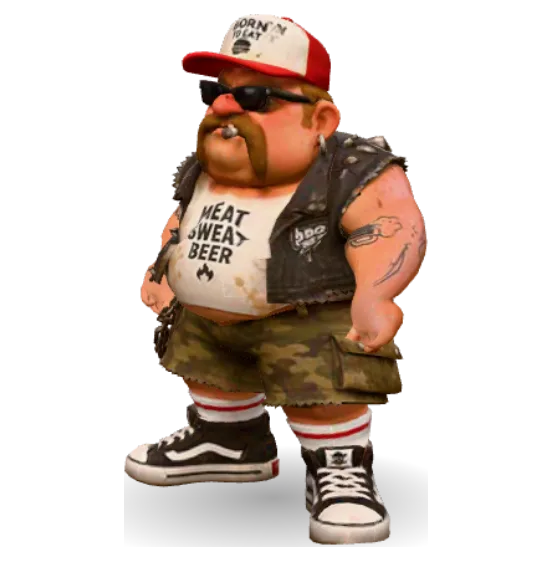
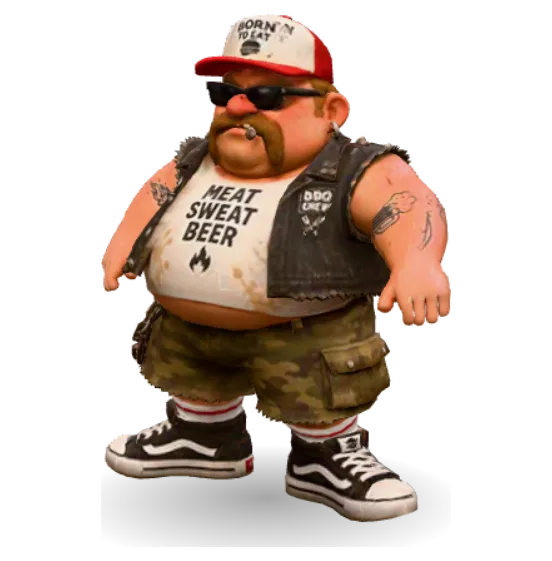
Unanimated characters borrow from a rig of their own build: the fat Biker's clips for the big ones, the Hick's for the slim (not Zap's alien proportions)
Claude-Session: https://claude.ai/code/session_01McRD2PT414eMdAMdSUCz7Q

Changed region(s): [[0.1848, 0.0303, 0.8315, 0.9697]]

diff --git a/site/content.js b/site/content.js
@@ -117,30 +117,30 @@ export const ASSETS = [
     tris: 10000, joints: 65, clips: 12, prefer: ['idle'],
     notes: ['Walk, run, strafe and turn set'] },
   // the rest of Zap 'n Clancy's street. Rigged but most unanimated in the file: they borrow
-  // Zap's idle, walk and run (`anim`) so they stand like people instead of in a T-pose
+  // the idle, walk and run of a rig with the same build (`anim`): the fat Biker's for the big ones, the Hick's for the slim so they stand like people instead of in a T-pose
   { slug: 'officer', h: 1.82, title: 'Officer', from: "Zap 'n Clancy", also: ['Shredworld'], glb: 'models/assets/police_officer_toon.glb', mb: 1.2,
     tris: 6875, joints: 59, clips: 15, prefer: ['idle_01'],
     notes: ['Also the police in Shredworld', 'Draw, shoot, hit reactions, knock-down and get-up', 'Pistol on a weapon joint'] },
   { slug: 'biker', h: 1.8, title: 'Biker', from: "Zap 'n Clancy", glb: 'models/assets/fat_biker_02.glb', mb: 1.4,
     tris: 10562, joints: 65, clips: 15, prefer: ['idle'],
     notes: ['Driving, hit reactions, fall and get-up', 'Fans himself when idle'] },
-  { slug: 'biker-2', h: 1.8, title: 'Biker II', from: "Zap 'n Clancy", glb: 'models/assets/fat_biker_01.glb', anim: 'models/assets/zap.glb', mb: 0.3,
+  { slug: 'biker-2', h: 1.8, title: 'Biker II', from: "Zap 'n Clancy", glb: 'models/assets/fat_biker_01.glb', anim: 'models/assets/fat_biker_02.glb', mb: 0.3,
     tris: 10316, joints: 66, clips: 0, prefer: ['idle'], notes: ['Rigged, ready for the shared clip set'] },
-  { slug: 'activist', h: 1.75, title: 'Activist', from: "Zap 'n Clancy", glb: 'models/assets/fat_activist_01.glb', anim: 'models/assets/zap.glb', mb: 0.2,
+  { slug: 'activist', h: 1.75, title: 'Activist', from: "Zap 'n Clancy", glb: 'models/assets/fat_activist_01.glb', anim: 'models/assets/fat_biker_02.glb', mb: 0.2,
     tris: 10578, joints: 65, clips: 0, prefer: ['idle'], notes: ['Rigged, ready for the shared clip set'] },
-  { slug: 'hippie', h: 1.75, title: 'Hippie', from: "Zap 'n Clancy", glb: 'models/assets/fat_hippie.glb', anim: 'models/assets/zap.glb', mb: 0.3,
+  { slug: 'hippie', h: 1.75, title: 'Hippie', from: "Zap 'n Clancy", glb: 'models/assets/fat_hippie.glb', anim: 'models/assets/fat_biker_02.glb', mb: 0.3,
     tris: 10220, joints: 66, clips: 0, prefer: ['idle'], notes: ['Rigged, ready for the shared clip set'] },
-  { slug: 'hipster', h: 1.75, title: 'Hipster', from: "Zap 'n Clancy", glb: 'models/assets/fat_hipster.glb', anim: 'models/assets/zap.glb', mb: 0.2,
+  { slug: 'hipster', h: 1.75, title: 'Hipster', from: "Zap 'n Clancy", glb: 'models/assets/fat_hipster.glb', anim: 'models/assets/fat_biker_02.glb', mb: 0.2,
     tris: 10113, joints: 66, clips: 0, prefer: ['idle'], notes: ['Rigged, ready for the shared clip set'] },
-  { slug: 'secret-service', h: 1.85, title: 'Secret Service', from: "Zap 'n Clancy", glb: 'models/assets/fat_secret_service.glb', anim: 'models/assets/zap.glb', mb: 0.1,
+  { slug: 'secret-service', h: 1.85, title: 'Secret Service', from: "Zap 'n Clancy", glb: 'models/assets/fat_secret_service.glb', anim: 'models/assets/fat_biker_02.glb', mb: 0.1,
     tris: 5298, joints: 66, clips: 0, prefer: ['idle'], notes: ['Rigged, ready for the shared clip set'] },
-  { slug: 'trump', h: 1.85, title: 'Trump', from: "Zap 'n Clancy", glb: 'models/assets/fat_trump.glb', anim: 'models/assets/zap.glb', mb: 0.1,
+  { slug: 'trump', h: 1.85, title: 'Trump', from: "Zap 'n Clancy", glb: 'models/assets/fat_trump.glb', anim: 'models/assets/fat_biker_02.glb', mb: 0.1,
     tris: 4402, joints: 66, clips: 0, prefer: ['idle'], notes: ['Rigged, ready for the shared clip set'] },
-  { slug: 'firefighter', h: 1.82, title: 'Firefighter', from: "Zap 'n Clancy", glb: 'models/assets/firefighter.glb', anim: 'models/assets/zap.glb', mb: 0.3,
+  { slug: 'firefighter', h: 1.82, title: 'Firefighter', from: "Zap 'n Clancy", glb: 'models/assets/firefighter.glb', anim: 'models/assets/fat_biker_02.glb', mb: 0.3,
     tris: 10897, joints: 66, clips: 0, prefer: ['idle'], notes: ['Rigged, ready for the shared clip set'] },
-  { slug: 'blonde', h: 1.7, title: 'Blonde', from: "Zap 'n Clancy", glb: 'models/assets/beautiful_blonde.glb', anim: 'models/assets/zap.glb', mb: 0.2,
+  { slug: 'blonde', h: 1.7, title: 'Blonde', from: "Zap 'n Clancy", glb: 'models/assets/beautiful_blonde.glb', anim: 'models/assets/hick_skinny.glb', mb: 0.2,
     tris: 11095, joints: 66, clips: 0, prefer: ['idle'], notes: ['Rigged, ready for the shared clip set'] },
-  { slug: 'brunette', h: 1.7, title: 'Brunette', from: "Zap 'n Clancy", glb: 'models/assets/beautiful_asian.glb', anim: 'models/assets/zap.glb', mb: 0.3,
+  { slug: 'brunette', h: 1.7, title: 'Brunette', from: "Zap 'n Clancy", glb: 'models/assets/beautiful_asian.glb', anim: 'models/assets/hick_skinny.glb', mb: 0.3,
     tris: 10320, joints: 66, clips: 1, prefer: ['idle'], notes: ['A walk of her own; the rest of the set shared'] },
   // Plutopia
   { slug: 'zorp', h: 1.45, title: 'Zorp', from: 'Plutopia', also: ['Shredworld'], glb: 'models/assets/alien_orange.glb', mb: 2.3,

diff --git a/site/app.js b/site/app.js
@@ -1,4 +1,4 @@
-import { SITE, SECTIONS, PLAY, ASSETS, SCRIPTS, TUTORIALS, SUPPORT, SOCIALS, WEB, STUDIOS, MOTION, WORKBENCH, WRITING, GUMROAD, SONGS, SFX, ABOUT } from './content.js?v=a0ba9392';
+import { SITE, SECTIONS, PLAY, ASSETS, SCRIPTS, TUTORIALS, SUPPORT, SOCIALS, WEB, STUDIOS, MOTION, WORKBENCH, WRITING, GUMROAD, SONGS, SFX, ABOUT } from './content.js?v=6840fd37';
 import { onAccent, nextPreset, randomAccent, initTheme, setTheme, sectionColours } from './palette.js?v=8afb0eea';
 
 const BASE = window.BASE || '/';
@@ -127,7 +127,7 @@ function charPicker(root, { home = false } = {}) {
     if (grp && panel.previousElementSibling !== grp) grp.after(panel);   // their details open right under their game's row
     viewer?.destroy(); viewer = null;
     panel.innerHTML = it || !home ? charDetail(it) : ''; panel.classList.toggle('on', !!it);
-    if (it) import('./viewer.js?v=f55e5d04').then(m => { if (CHARPICK.show === show && panel.querySelector('#char-viewer'))
+    if (it) import('./viewer.js?v=37eb75be').then(m => { if (CHARPICK.show === show && panel.querySelector('#char-viewer'))
       viewer = m.mountViewer(panel.querySelector('#char-viewer'), { url: it.glb, prefer: it.prefer, anim: it.anim }); });
     faces.forEach(b => b.classList.toggle('on', b.dataset.char === slug));
   };
@@ -219,7 +219,7 @@ const PAGES = {
     if (slug) {
       const it = ASSETS.find(x => x.slug === slug);
       if (!it) return missing();
-      after = () => import('./viewer.js?v=f55e5d04').then(m => { mounted = m.mountViewer($('#viewer'), { url: it.glb, prefer: it.prefer, anim: it.anim }); });
+      after = () => import('./viewer.js?v=37eb75be').then(m => { mounted = m.mountViewer($('#viewer'), { url: it.glb, prefer: it.prefer, anim: it.anim }); });
       return `<div class="wrap">${crumbs(link('characters', 'Characters'), esc(it.title))}
         <h2 class="title">${esc(it.title)}</h2>
         <p class="lede">From ${esc(it.from)}. ${it.notes.map(esc).join(' · ')}.</p>
@@ -499,7 +499,7 @@ function backdrop(key) {
   WEAVE?.visible(!own || own === 'lineup');                         // the line-up stands in front of a dimmed weave
   WEAVE?.canvas.classList.toggle('dim', own === 'lineup');
   if (own === 'lineup' && !LINEUP && !lineupLoading && GLORB.ready)
-    lineupLoading = import('./lineup.js?v=1ffaa3ec').then(m => {
+    lineupLoading = import('./lineup.js?v=0f15b862').then(m => {
       const cast = ASSETS.filter(a => a.from === CAST.game || a.also?.includes(CAST.game)), half = Math.ceil(cast.length / 2);
       LINEUP = m.createLineup($('#glorb'), [...cast.slice(0, half), { slug: 'colin', colin: true, h: 1.9, title: 'Colin', glb: 'models/colin.glb', prefer: ['idle_neutral'] }, ...cast.slice(half)], { onPick: slug => CHARPICK.show?.(slug),
         colin: { place: p => { SEAT = p; }, joined: v => { document.body.classList.toggle('colin-in-line', v); heroSync(); } } });
@@ -886,7 +886,7 @@ const globeReady = GLORB_ON ? Promise.resolve() : (USE_SWARM ? import('./stage-s
 }).catch(err => { console.warn('globe unavailable', err); document.body.classList.add('no-globe'); });
 
 const intro = wantIntro
-  ? import('./intro.js?v=07a58b51').then(m => m.playIntro({ role: SITE.role, bg: css('--bg'), glorb: () => GLORB.api, dotK: GLORB_DOT }))
+  ? import('./intro.js?v=de361eea').then(m => m.playIntro({ role: SITE.role, bg: css('--bg'), glorb: () => GLORB.api, dotK: GLORB_DOT }))
       .catch(err => console.warn('intro', err))
   : Promise.resolve();
 
@@ -905,5 +905,5 @@ const ITEMS = [
   ...WRITING.map(w => ({ title: w.title, path: 'writing/' + w.slug })),
 ];
 if (!q.has('nocolin')) intro.then(() => new Promise(r => setTimeout(r, 900))).then(() =>
-  import('./colin.js?v=c9f0cadc').then(m => { colin = m.createMiniColin({ go, known: KNOWN, items: ITEMS, pageOf: () => '/' + route().join('/') }); colinWait.forEach(f => f(colin)); }))
+  import('./colin.js?v=8ed6e9fa').then(m => { colin = m.createMiniColin({ go, known: KNOWN, items: ITEMS, pageOf: () => '/' + route().join('/') }); colinWait.forEach(f => f(colin)); }))
   .catch(err => console.warn('mini colin unavailable', err));

diff --git a/site/intro.js b/site/intro.js
@@ -33,7 +33,7 @@ export function playIntro({ role = '', bg = '#f3f2ef', rim = '#9a1cf0', core = '
        head projected every frame, so an arm swing is what shoves them. */
     const me = { ok: false, on: false, cv: Object.assign(document.createElement('canvas'), { className: 'intro-me' }) };
     document.body.appendChild(me.cv);   // outside the intro: he keeps walking after it has faded
-    import('./intro-me.js?v=3f2cbcc7').then(m => m.mountMe(me.cv)).then(api => { if (api) { me.api = api; me.ok = true; } }).catch(() => {});
+    import('./intro-me.js?v=6a782352').then(m => m.mountMe(me.cv)).then(api => { if (api) { me.api = api; me.ok = true; } }).catch(() => {});
     document.body.appendChild(el);
     const cv = el.querySelector('canvas'), g = cv.getContext('2d'), g0 = g;
     /* Depth: a third of the dots are drawn on a layer ABOVE him, so he walks

diff --git a/site/rig.js b/site/rig.js
@@ -30,7 +30,7 @@ const RESIDUE = /CINEMA_4D_Main|\.\d{3}$|_rigged_mixamo$|^handyman_animations$/;
 // Mixamo skeleton naming. Rotation tracks only: a position track bakes the donor's bone
 // lengths and stretches the wearer (the Hips' travel goes with it, which an idle does not need).
 const donors = new Map();
-const BORROW = /^(idle|idle_01|walk_fwd|run_fwd)$/i;
+const BORROW = /^(idle|idle_01|walk_fwd|run_fwd|walking|running)$/i;
 // THE HIPS ARE THE ONE BONE THAT IS CORRECTED: one export puts its 90-degree Z-up turn on a
 // `root` above the hips, another bakes it into the hips themselves, and the borrowed hip
 // rotation then tips the wearer onto his back. q' = wearerRest * donorRest^-1 * q, on that

diff --git a/site/intro-me.js b/site/intro-me.js
@@ -4,7 +4,7 @@
 // particles can be shoved out of his way. When he has walked off the right he
 // takes his canvas with him.
 import * as THREE from '../vendor/three.module.min.js';
-import { loadCharacter, skinnedBounds, pickClip, play } from './rig.js?v=aba0bb7d';
+import { loadCharacter, skinnedBounds, pickClip, play } from './rig.js?v=f2ce1ea9';
 
 export async function mountMe(cv) {
   const c = await loadCharacter(new URL('../models/colin.glb', import.meta.url).href);

diff --git a/site/lineup.js b/site/lineup.js
@@ -11,7 +11,7 @@
 //     each, and from where the camera stands nobody can tell;
 //   * it only renders while the Characters page is showing and on screen.
 import * as THREE from '../vendor/three.module.min.js';
-import { loadCharacter, skinnedBounds, pickClip, play } from './rig.js?v=aba0bb7d';
+import { loadCharacter, skinnedBounds, pickClip, play } from './rig.js?v=f2ce1ea9';
 
 export const LINE = { gap: 1.05, stagger: 0.35, tall: 0.4, tex: 512, dim: 0.32, fov: 30 };
 

diff --git a/lab/lab.js b/lab/lab.js
@@ -8,7 +8,7 @@
 import * as THREE from '../vendor/three.module.min.js';
 import { createSwarm } from '../site/swarm.js?v=a192b303';
 import { OBJECTS, fit, sampleSurface, sampleText, sampleSkinned } from '../site/shapes.js?v=aac1b012';
-import { loadCharacter, pickClip, play } from '../site/rig.js?v=aba0bb7d';
+import { loadCharacter, pickClip, play } from '../site/rig.js?v=f2ce1ea9';
 import { onAccent, oklchHex } from '../site/palette.js?v=8afb0eea';
 
 const SLIDES = [

diff --git a/site/colin.js b/site/colin.js
@@ -13,7 +13,7 @@
 // here, the page moves at once, and he talks about it while it does.
 
 import * as THREE from '../vendor/three.module.min.js';
-import { loadCharacter, skinnedBounds, pickClip, play } from './rig.js?v=aba0bb7d';
+import { loadCharacter, skinnedBounds, pickClip, play } from './rig.js?v=f2ce1ea9';
 import { mouth, speakBuffer, hush, VISEME, JAW } from './speech.js?v=d7e94a3c';
 
 export const BRAIN = 'https://orb-brain.colinwillowtree.workers.dev';

diff --git a/site/viewer.js b/site/viewer.js
@@ -3,7 +3,7 @@
 // That last part is the pitch -- a spec sheet you can check, not a claim.
 
 import * as THREE from '../vendor/three.module.min.js';
-import { loadCharacter, skinnedBounds, pickClip, play } from './rig.js?v=aba0bb7d';
+import { loadCharacter, skinnedBounds, pickClip, play } from './rig.js?v=f2ce1ea9';
 
 function facing(model) {
   const toes = [], v = new THREE.Vector3(), w = new THREE.Vector3(), sum = new THREE.Vector3();

diff --git a/index.html b/index.html
@@ -52,6 +52,6 @@
   <main id="view" tabindex="-1"></main>
 
   <noscript><p style="padding:2rem">This site needs JavaScript. The <a href="classic.html">previous portfolio</a> works without it.</p></noscript>
-  <script type="module" src="site/app.js?v=aec3b608"></script>
+  <script type="module" src="site/app.js?v=cb5dfd5d"></script>
 </body>
 </html>

diff --git a/lab/index.html b/lab/index.html
@@ -46,6 +46,6 @@
     <div class="dots" id="dots"></div>
     <div class="hint" id="hint">swipe · tap to enter</div>
   </div>
-  <script type="module" src="lab.js?v=ce8e7b12"></script>
+  <script type="module" src="lab.js?v=10145a59"></script>
 </body>
 </html>
